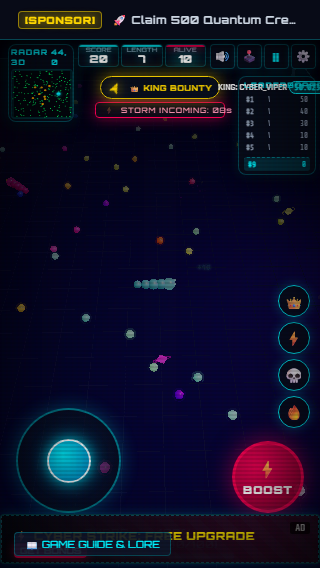
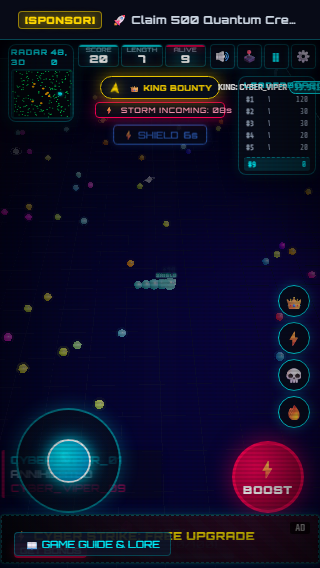
feat: accelerate mission progression and real-time survival task completion

diff --git a/index.html b/index.html
@@ -3591,10 +3591,13 @@
         };
 
         // Frame-rate aligned zero-latency input hook (fires right before physics step)
-        engine.hooks.onBeforeStep = () => {
+        engine.hooks.onBeforeStep = (dt) => {
           updateKeyboardSteer();
           if (isMouseActive) {
             updateMouseSteer();
+          }
+          if (engine && typeof engine.elapsed === 'number') {
+            ApexOrbit.reportProgress('time', Math.floor(engine.elapsed));
           }
         };
 
@@ -4802,12 +4805,12 @@
         wins: 0
       };
 
-      // Orbit Missions Definition
+      // Orbit Missions Definition - Accelerated progression targets for fastest task completion
       const MISSION_DEFS = [
-        { id: 1, title: 'Length Pioneer', desc: 'Grow your serpent to length 25', target: 25, rewardText: '+100 Credits', type: 'length', reward: { credits: 100 } },
-        { id: 2, title: 'Apex Predator', desc: 'Eliminate 2 rival serpents in battle', target: 2, rewardText: '1 Revive Token', type: 'kills', reward: { revives: 1 } },
-        { id: 3, title: 'Storm Survivor', desc: 'Survive 90 seconds in electric storm', target: 90, rewardText: '1 Magnet Pack', type: 'time', reward: { magnets: 1 } },
-        { id: 4, title: 'Quantum Harvester', desc: 'Collect 10 energy orbs & capsules', target: 10, rewardText: '+200 Credits', type: 'powerups', reward: { credits: 200 } },
+        { id: 1, title: 'Length Pioneer', desc: 'Grow your serpent to length 10', target: 10, rewardText: '+150 Credits', type: 'length', reward: { credits: 150 } },
+        { id: 2, title: 'Apex Predator', desc: 'Eliminate 1 rival serpent in battle', target: 1, rewardText: '1 Revive Token', type: 'kills', reward: { revives: 1 } },
+        { id: 3, title: 'Storm Survivor', desc: 'Survive 15 seconds in electric storm', target: 15, rewardText: '1 Magnet Pack', type: 'time', reward: { magnets: 1 } },
+        { id: 4, title: 'Quantum Harvester', desc: 'Collect 3 energy orbs & capsules', target: 3, rewardText: '+250 Credits', type: 'powerups', reward: { credits: 250 } },
         { id: 5, title: 'Victory Royale', desc: 'Survive the final collapse & claim Rank #1', target: 1, rewardText: 'VIP Dragon Skin Unlock', type: 'win', reward: { dragonSkin: 3 } }
       ];
 
